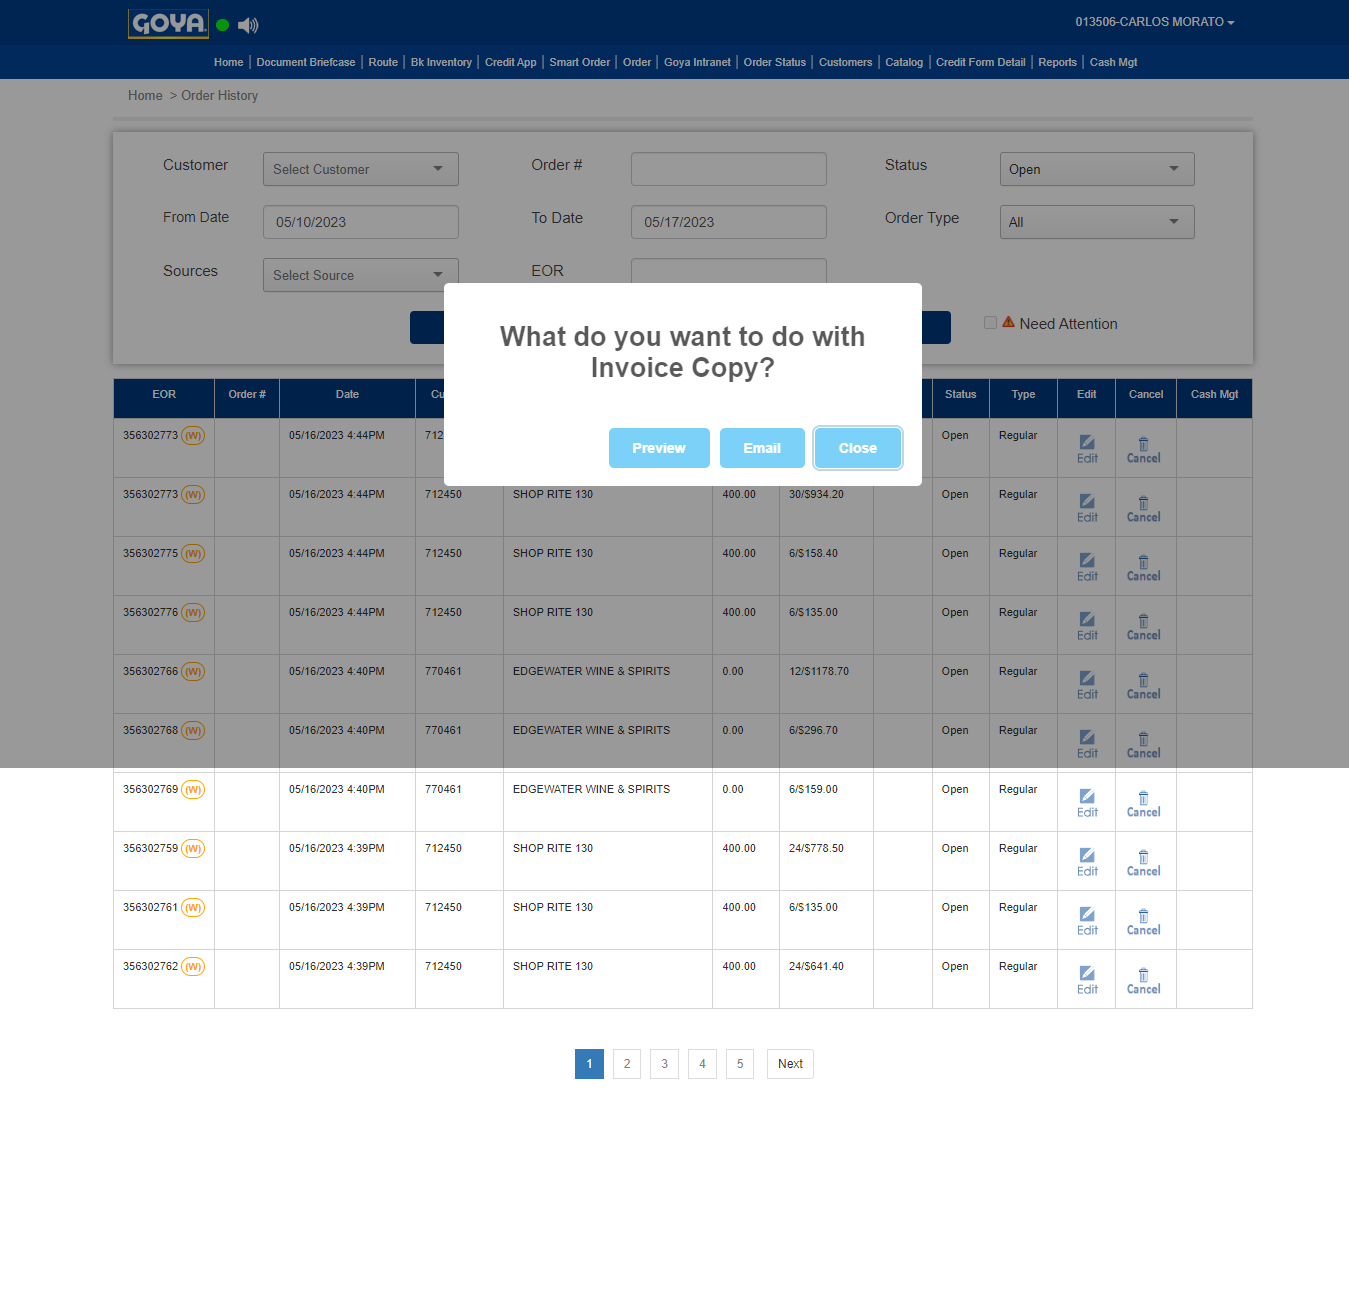
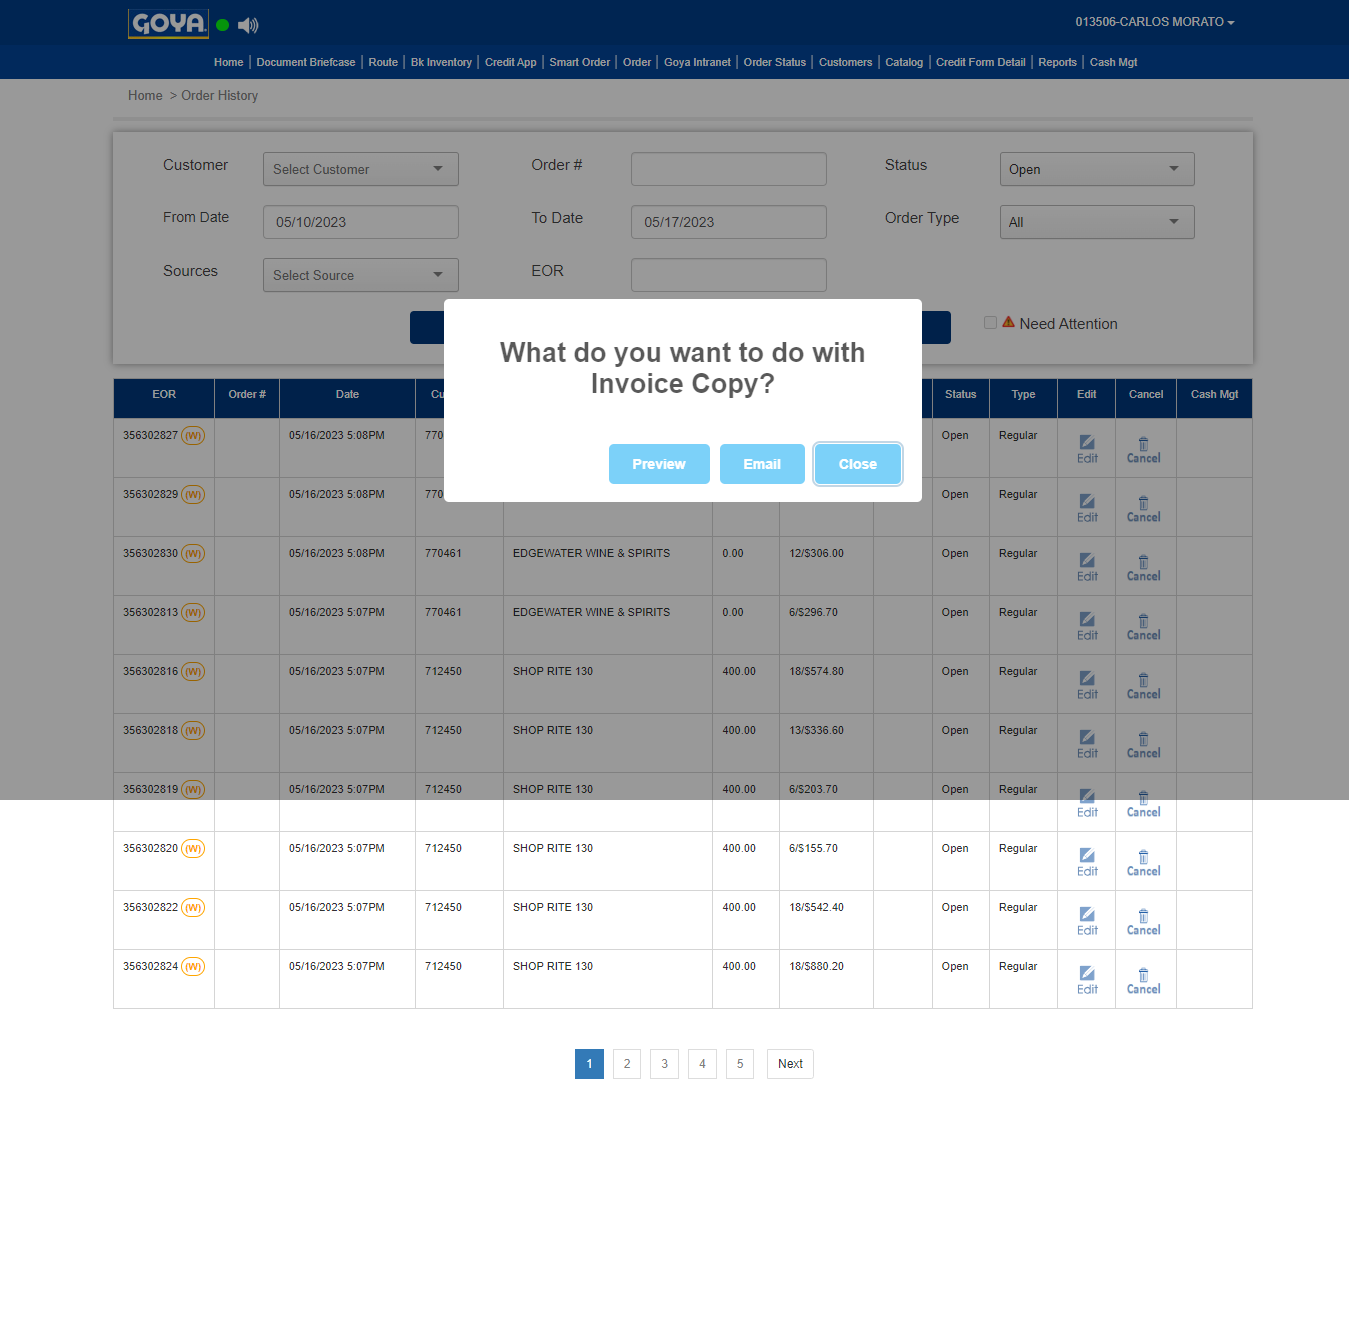
OrderStatusGoya

diff --git a/tests/Orderstatus.spec.js b/tests/Orderstatus.spec.js
@@ -31,7 +31,7 @@ test('Order Status', async ({ page }) => {
     await page.getByRole('button', { name: 'Status focus' }).press('ScrollLock');
     await page.getByRole('option', { name: 'Open', exact: true }).getByText('Open').click();
     await page.waitForTimeout(10000)
-    await page.getByRole('cell', { name: '356302766 (W)' }).click();
+    await page.getByRole('cell', { name: '356302827 (W)' }).click();
     await page.screenshot({ path: "Pdf.png", fullPage: true })
     const downloadPromise = page.waitForEvent('download');
     await page.locator('#pdf').getByText('PDF').click();

diff --git a/playwright.config.js b/playwright.config.js
@@ -52,7 +52,7 @@ module.exports = defineConfig({
       name: 'chromium',
       use: { 
         ...devices['Desktop Chrome'],
-        viewport:{width:1366,height:768}
+        viewport:{width:1366,height:800}
                
       },
       
